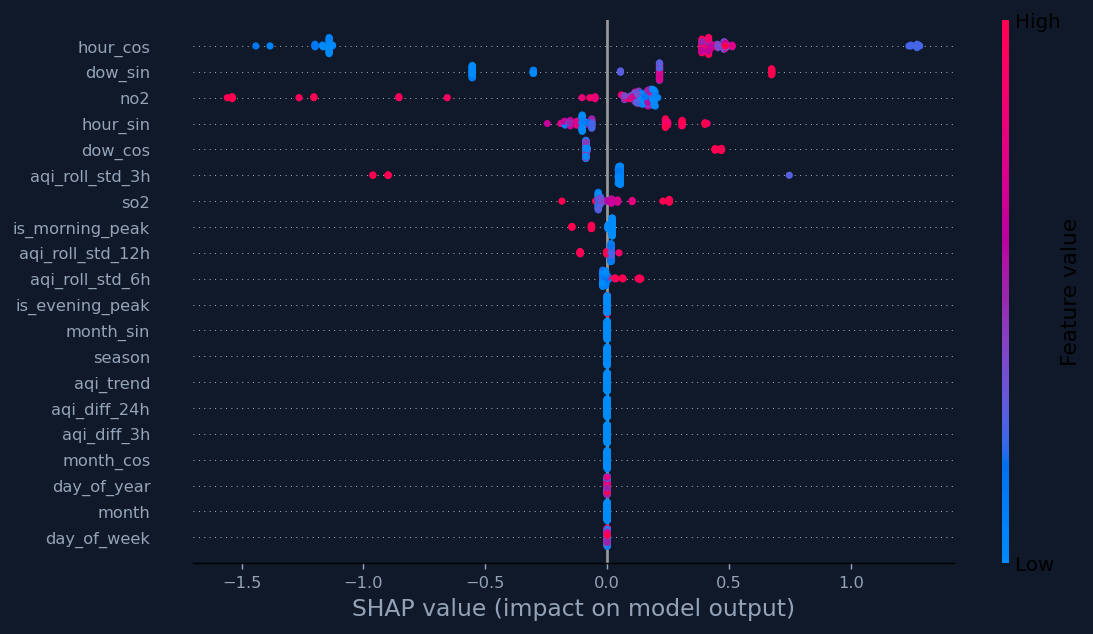
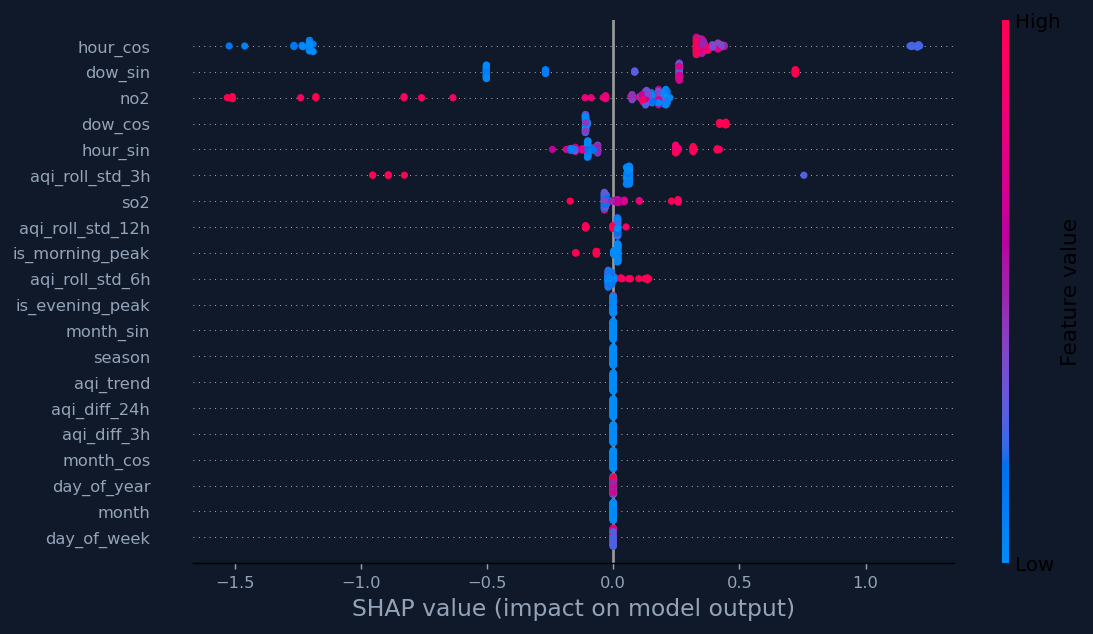
added readme for project explanations

diff --git a/Readme.md b/Readme.md
@@ -1,0 +1,208 @@
+# 🌫️ Multan Air Quality Predictor
+
+> Real-time monitoring · 72-hour ML forecast · SHAP explainability
+
+An automated MLOps pipeline that collects live air pollution data for Multan every hour, computes the EPA Air Quality Index, and forecasts AQI for the next 72 hours — all running on its own through a single GitHub Actions workflow.
+
+![Python](https://img.shields.io/badge/Python-3776AB?style=flat&logo=python&logoColor=white)
+![XGBoost](https://img.shields.io/badge/XGBoost-R²_0.989-FF6600?style=flat)
+![BigQuery](https://img.shields.io/badge/BigQuery-4285F4?style=flat&logo=googlecloud&logoColor=white)
+![GitHub Actions](https://img.shields.io/badge/GitHub_Actions-2088FF?style=flat&logo=githubactions&logoColor=white)
+![Streamlit](https://img.shields.io/badge/Streamlit-FF4B4B?style=flat&logo=streamlit&logoColor=white)
+
+---
+
+## 📸 Dashboard Preview
+
+### Live AQI · Health Advisory · Pollutant Levels
+![Dashboard Main](screenshots/dashboard_main.png)
+
+### 72-Hour Forecast + 3-Day Summary Cards
+![Forecast](screenshots/forecast.png)
+
+### 7-Day Historical Trend + Hourly Heatmap
+![History](screenshots/history_heatmap.png)
+
+### SHAP Model Explainability
+![SHAP](screenshots/shap.png)
+
+---
+
+## 📁 Project Structure
+
+```
+Aqi_predictor/
+│
+├── .github/
+│   └── workflows/
+│       └── mlops-schedule.yml        # Single workflow — runs ingestion + SHAP on schedule
+│
+├── app/
+│   └── main.py                       # Streamlit dashboard entry point
+│
+├── artifacts/                        # Saved model files (auto-generated, not committed)
+│   ├── aqi_best_model.pkl            # Trained XGBoost model
+│   ├── aqi_scaler.joblib             # Feature scaler
+│   ├── aqi_scaler.pkl                # Feature scaler (backup format)
+│   ├── feature_cols.json             # List of 53 feature column names
+│   ├── shap_summary_live.png         # Latest SHAP plot (updated daily)
+│   └── shap_summary.png              # Saved SHAP summary
+│
+├── data/
+│   └── multan_features.csv           # Engineered features dataset
+│
+├── src/
+│   ├── tests/                        # Unit tests
+│   ├── backfill.py                   # One-time script to load 1 year of historical data
+│   ├── data_ingestion.py             # Hourly fetch → compute AQI → save to BigQuery
+│   ├── explainability.py             # Daily SHAP value computation
+│   ├── model_training.py             # XGBoost training + feature engineering
+│   └── notebooks/                   # Exploration notebooks
+│
+├── .env                              # API keys and GCP config (never commit this)
+├── .gitignore
+└── requirements.txt
+```
+
+---
+
+## ⚙️ How It Works
+
+### 1 — Data Collection (`src/data_ingestion.py`)
+Every hour, the pipeline calls the OpenWeatherMap API for Multan's coordinates and fetches six pollutant readings: `PM2.5`, `PM10`, `NO2`, `SO2`, `O3`, and `CO`. The data is saved to Google BigQuery.
+
+### 2 — AQI Calculation
+The API returns AQI on a 1–5 scale. The system converts it to the standard **EPA 0–500 scale** using the official formula applied to each pollutant individually:
+
+$$AQI = \frac{(AQI_{Hi} - AQI_{Lo})}{(BP_{Hi} - BP_{Lo})} \times (C - BP_{Lo}) + AQI_{Lo}$$
+
+The highest value across all six pollutants becomes the final AQI.
+
+### 3 — Model Training (`src/model_training.py`)
+XGBoost is trained on 8,375 hours of historical data with **53 engineered features** including lag values (1h–72h), rolling averages, cyclical time encodings, and peak hour flags. The trained model is saved to `artifacts/aqi_best_model.pkl`.
+
+| Model | R² | Avg Error |
+|-------|----|-----------|
+| Linear Regression | 0.812 | 18.4 pts |
+| Random Forest | 0.971 | 6.8 pts |
+| **XGBoost ✅** | **0.989** | **~3 pts** |
+
+### 4 — Forecasting
+The model predicts AQI one hour at a time — each prediction is used as the lag input for the next step — building a full **72-hour recursive forecast**.
+
+### 5 — SHAP Explainability (`src/explainability.py`)
+Every midnight, SHAP values are recomputed using `TreeExplainer` and saved as `artifacts/shap_summary_live.png`. Top contributing features from your model:
+
+| Rank | Feature | SHAP Value |
+|------|---------|-----------|
+| 1 | hour_cos | 0.666 |
+| 2 | dow_sin | 0.385 |
+| 3 | no2 | 0.261 |
+| 4 | dow_cos | 0.174 |
+| 5 | hour_sin | 0.164 |
+
+---
+
+## 🤖 Automation (`mlops-schedule.yml`)
+
+A single GitHub Actions workflow handles everything on a cron schedule:
+
+```yaml
+# Hourly — data ingestion
+- cron: '0 * * * *'
+  runs: src/data_ingestion.py
+
+# Daily midnight — SHAP update
+- cron: '0 0 * * *'
+  runs: src/explainability.py
+```
+
+Authentication uses **Workload Identity Federation** — no API keys or service account files stored in the repo.
+
+---
+
+## 📊 Dashboard (`app/main.py`)
+
+Run locally with:
+```bash
+streamlit run app/main.py
+```
+
+The dashboard has four sections:
+
+**Section 1 — Live Overview**
+- AQI gauge (0–500 scale, EPA colour-coded: Good → Hazardous)
+- Health advisory with specific recommendations (e.g. *"Wear N95 masks if going outside"*)
+- 72H outlook summary: Avg / Peak / Low AQI
+- Live pollutant bar chart vs WHO limits (PM2.5, PM10, NO₂, SO₂, O₃, CO)
+
+**Section 2 — 72-Hour Forecast**
+- Colour-coded line chart (Jun 8–11) with AQI health zone shading
+- 3 summary cards: Tomorrow · Day 2 · Day 3 with avg AQI, min/max range, and health category
+
+**Section 3 — Historical & Patterns**
+- 7-day AQI line chart (Jun 1–7) pulled live from BigQuery
+- Hourly heatmap: day-of-week × hour showing typical pollution patterns across the week
+
+**Section 4 — Model Explainability**
+- SHAP beeswarm plot — Red dots = increases AQI, Blue dots = decreases AQI
+- Top contributing features ranked by absolute SHAP value
+
+> Status badges in the top-right show whether data is coming from **BigQuery (Real-Time)** or a **Local Artifact (Offline)** fallback.
+
+---
+
+## 🚀 Getting Started
+
+### 1. Clone & Install
+
+```bash
+git clone https://github.com/MohsinAzad32/Aqi_predictor.git
+cd Aqi_predictor
+pip install -r requirements.txt
+```
+
+### 2. Set Up `.env`
+
+```env
+OWM_API_KEY=your_openweathermap_key
+GCP_PROJECT_ID=your_project_id
+BQ_DATASET=aqi_data
+BQ_TABLE=multan_hourly
+GCS_BUCKET=your_bucket_name
+```
+
+### 3. Load Historical Data (First Time Only)
+
+```bash
+python src/backfill.py
+```
+
+### 4. Train the Model
+
+```bash
+python src/model_training.py
+```
+
+### 5. Run the Dashboard
+
+```bash
+streamlit run app/main.py
+```
+
+---
+
+## 🔧 Requirements
+
+Key dependencies from `requirements.txt`:
+
+```
+streamlit
+xgboost
+shap
+pandas
+scikit-learn
+google-cloud-bigquery
+google-cloud-storage
+openmeteo-requests
+python-dotenv